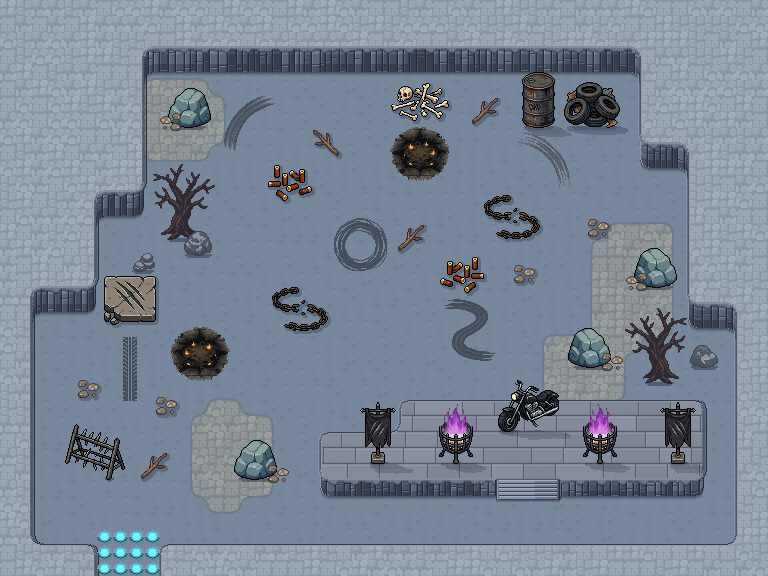
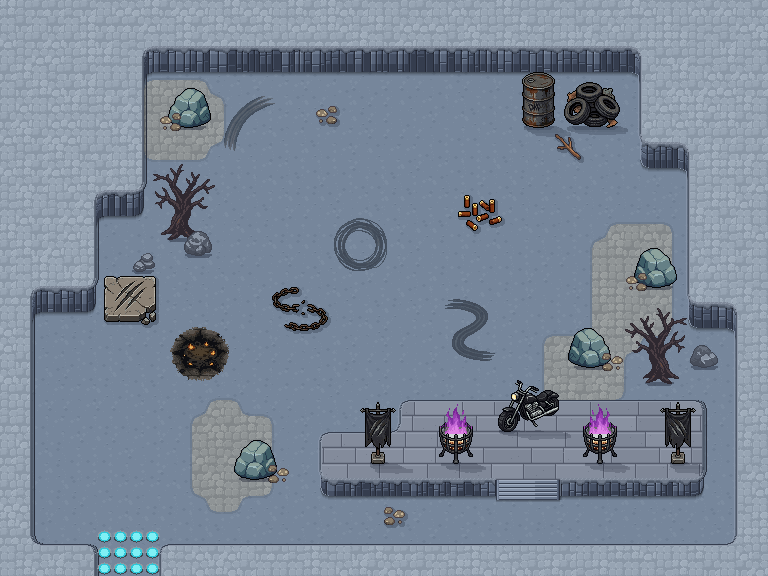
Karte 49: aufgeräumt (Nutzer: zu voll) - weniger Spuren, Kampfspuren und Streudeko
Claude-Session: https://claude.ai/code/session_01SaoYHKhnro4LFcPJqjaPsq

diff --git a/tools/karte49_objekte.py b/tools/karte49_objekte.py
@@ -112,8 +112,7 @@ def main():
     suche('reifen', 600, 110, {}, False, 1, r=3, schritt=8)          # Werkstattecke oben rechts am Rand
     suche('fass', 555, 110, {}, False, 1, r=3, schritt=8)
     # ---------------- Motorradspuren (Nutzer): Burnout in der Arenamitte, Boegen und Profilspur Richtung Buehne
-    for (n, px, py, sp_) in [('burnout', 360, 270, False), ('bogen', 250, 150, False), ('schlange', 470, 360, True),
-                             ('profil', 130, 400, False), ('bogen2', 560, 170, True)]:
+    for (n, px, py, sp_) in [('burnout', 360, 270, False), ('bogen', 250, 150, False), ('schlange', 470, 360, True)]:   # Nutzer: cleaner
         suche(n, px, py, {}, sp_, 1, r=3, schritt=8)
     # ---------------- Vorlage: Felsbrocken auf den Pflasterflecken, tote Baeume mit Begleitern
     for (px, py) in [(190, 125), (655, 280), (590, 360), (255, 472)]:
@@ -146,16 +145,14 @@ def main():
         if not ok:
             print('  Baum ohne Begleiter vor dem Stumpf', i)
     # ---------------- Gebrochenes Versprechen: zerrissene Ketten, Brandflecken, Kampfspuren (dezent, keine Reihen)
-    for (n, px, py) in [('kette', 300, 330), ('kette', 520, 230), ('brand', 420, 180), ('brand', 200, 380),
-                        ('huelsen', 470, 300), ('kralle', 130, 300), ('knochen', 420, 120),
-                        ('sperre', 95, 470), ('huelsen', 290, 200)]:
+    for (n, px, py) in [('kette', 300, 330), ('brand', 200, 380), ('huelsen', 480, 230), ('kralle', 130, 300)]:   # Nutzer: cleaner
         suche(n, px, py, {'liegend': n in FLACH, 'ebene': 0 if n in FLACH else 1}, rnd.random() < 0.5, 1, r=3, schritt=8)
     # ---------------- sparsame Streudeko wie in der Vorlage (Zweige, Kiesel)
     kand = [(x, y) for y in range(4, rows - 3) for x in range(3, cols - 3) if cls[y][x] in 'gw']
     rnd.shuffle(kand)
     n_s = 0
     for (x, y) in kand:
-        if n_s >= 8:
+        if n_s >= 3:
             break
         if any(abs(o['kachel'][0] - x) < 5 and abs(o['kachel'][1] - y) < 4 for o in objekte if o.get('streu')):
             continue
